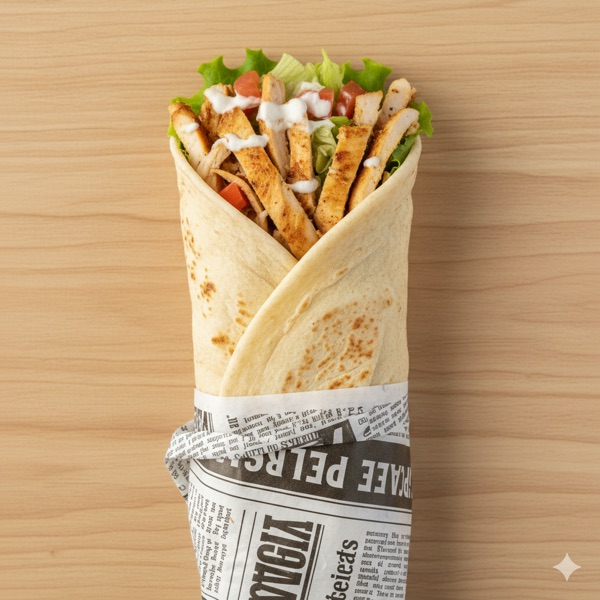
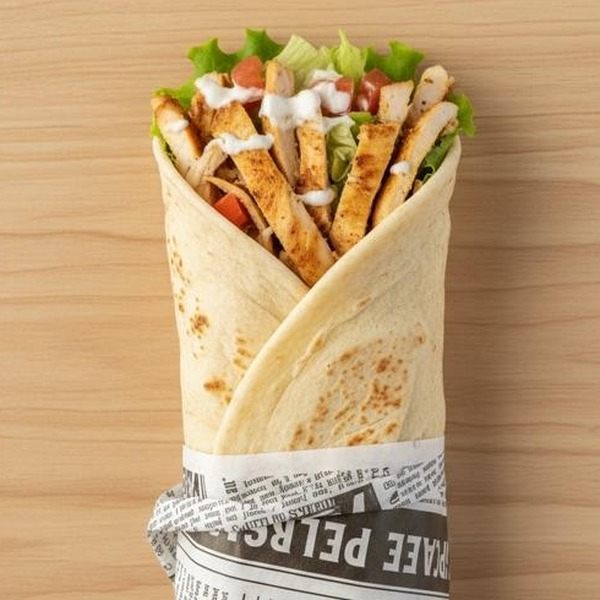
Admin: onglet Menu avec toggle dispo items + images sandwichs recadrées
- Ajout onglet Menu dans admin (toggle on/off par plat, realtime)
- Images sandwichs: crop zoom, suppression watermark Gemini
- Nouveau kafta remplacé
- seed-menu.sql aligné sur DEMO_ITEMS (prix, catégories, images)

diff --git a/admin/index.html b/admin/index.html
@@ -141,6 +141,25 @@ button{cursor:pointer;font-family:inherit;border:none}
 }
 .toggle.on::after{transform:translateX(24px)}
 
+/* ========= MENU MANAGEMENT ========= */
+.menu-cat-group{margin-bottom:24px}
+.menu-cat-header{
+  font-family:'Playfair Display',serif;font-size:1.1rem;font-weight:700;
+  color:var(--bordeaux);margin-bottom:10px;padding-bottom:6px;
+  border-bottom:2px solid #eee;
+}
+.menu-items-grid{display:grid;grid-template-columns:repeat(auto-fill,minmax(280px,1fr));gap:10px}
+.menu-item-card{
+  background:#fff;border-radius:var(--radius);padding:14px 16px;
+  display:flex;align-items:center;justify-content:space-between;gap:12px;
+  box-shadow:0 2px 8px rgba(0,0,0,.06);transition:opacity .3s;
+}
+.menu-item-card.off{opacity:.45}
+.menu-item-card.off .menu-item-name{text-decoration:line-through}
+.menu-item-info{flex:1;min-width:0}
+.menu-item-name{font-weight:600;font-size:.9rem;white-space:nowrap;overflow:hidden;text-overflow:ellipsis}
+.menu-item-price{font-size:.8rem;color:#888}
+
 /* ========= STATS ========= */
 .stats-grid{display:grid;grid-template-columns:repeat(auto-fit,minmax(200px,1fr));gap:16px;margin-bottom:24px}
 .stat-card{
@@ -188,6 +207,7 @@ button{cursor:pointer;font-family:inherit;border:none}
       Commandes <span class="tab-badge" id="ordersBadge" style="display:none">0</span>
     </button>
     <button class="tab" data-tab="ingredients" onclick="switchTab('ingredients')">Ingrédients</button>
+    <button class="tab" data-tab="menu" onclick="switchTab('menu')">Menu</button>
     <button class="tab" data-tab="stats" onclick="switchTab('stats')">Stats</button>
   </div>
 
@@ -204,6 +224,13 @@ button{cursor:pointer;font-family:inherit;border:none}
       <h2 style="margin-bottom:16px;color:var(--bordeaux)">Gestion des ingrédients</h2>
       <p style="color:#888;margin-bottom:20px;font-size:.9rem">Désactivez un ingrédient pour rendre indisponibles tous les plats qui le contiennent.</p>
       <div class="ingredients-grid" id="ingredientsList"></div>
+    </div>
+
+    <!-- Menu Tab -->
+    <div class="tab-content" id="tab-menu" style="display:none">
+      <h2 style="margin-bottom:16px;color:var(--bordeaux)">Gestion du menu</h2>
+      <p style="color:#888;margin-bottom:20px;font-size:.9rem">Activez/désactivez des plats individuellement. Les changements sont visibles instantanément chez les clients.</p>
+      <div id="menuList"></div>
     </div>
 
     <!-- Stats Tab -->
@@ -244,6 +271,8 @@ const sb = window.supabase.createClient(SUPABASE_URL, SUPABASE_ANON_KEY);
 
 let orders = [];
 let ingredients = [];
+let menuCategories = [];
+let menuItemsList = [];
 let currentTab = 'orders';
 
 // ===== AUTH =====
@@ -277,7 +306,7 @@ async function doLogout() {
 async function showDashboard() {
   document.getElementById('loginPage').style.display = 'none';
   document.getElementById('dashboard').style.display = 'block';
-  await Promise.all([loadOrders(), loadIngredients()]);
+  await Promise.all([loadOrders(), loadIngredients(), loadMenuItems()]);
   subscribeRealtime();
 }
 
@@ -396,6 +425,48 @@ async function toggleIngredient(id, newValue) {
   renderIngredients();
 }
 
+// ===== MENU ITEMS =====
+async function loadMenuItems() {
+  const [catRes, itemRes] = await Promise.all([
+    sb.from('menu_categories').select('*').order('ordre'),
+    sb.from('menu_items').select('*').eq('actif', true).order('id'),
+  ]);
+  menuCategories = catRes.data || [];
+  menuItemsList = itemRes.data || [];
+  renderMenuItems();
+}
+
+function renderMenuItems() {
+  const container = document.getElementById('menuList');
+  let html = '';
+  menuCategories.forEach(cat => {
+    const items = menuItemsList.filter(i => i.categorie_id === cat.id);
+    if (!items.length) return;
+    html += `<div class="menu-cat-group">`;
+    html += `<div class="menu-cat-header">${cat.emoji || ''} ${cat.nom} (${items.filter(i => i.disponible).length}/${items.length})</div>`;
+    html += '<div class="menu-items-grid">';
+    items.forEach(item => {
+      html += `
+        <div class="menu-item-card ${item.disponible ? '' : 'off'}" id="menu-${item.id}">
+          <div class="menu-item-info">
+            <div class="menu-item-name">${item.emoji || ''} ${item.nom}</div>
+            <div class="menu-item-price">${item.prix.toFixed(2).replace('.',',')} €</div>
+          </div>
+          <div class="toggle ${item.disponible ? 'on' : ''}" onclick="toggleMenuItem(${item.id},${item.disponible ? 'false' : 'true'})"></div>
+        </div>`;
+    });
+    html += '</div></div>';
+  });
+  container.innerHTML = html;
+}
+
+async function toggleMenuItem(id, newValue) {
+  await sb.from('menu_items').update({disponible: newValue}).eq('id', id);
+  const item = menuItemsList.find(i => i.id === id);
+  if (item) item.disponible = newValue;
+  renderMenuItems();
+}
+
 // ===== STATS =====
 function updateStats() {
   const total = orders.length;
@@ -432,6 +503,9 @@ function subscribeRealtime() {
     })
     .on('postgres_changes', {event:'*', schema:'public', table:'ingredients'}, () => {
       loadIngredients();
+    })
+    .on('postgres_changes', {event:'*', schema:'public', table:'menu_items'}, () => {
+      loadMenuItems();
     })
     .subscribe();
 }
